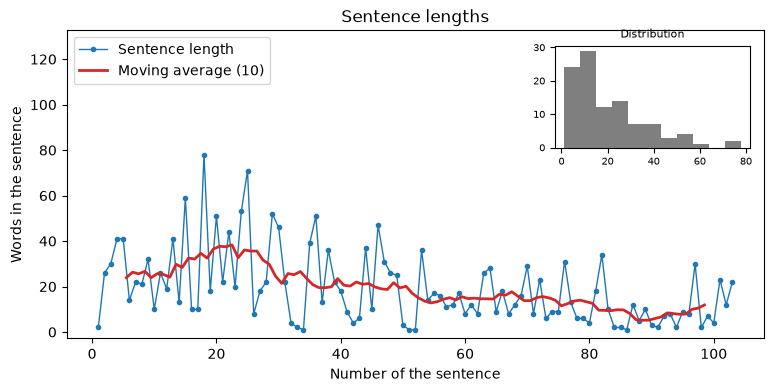
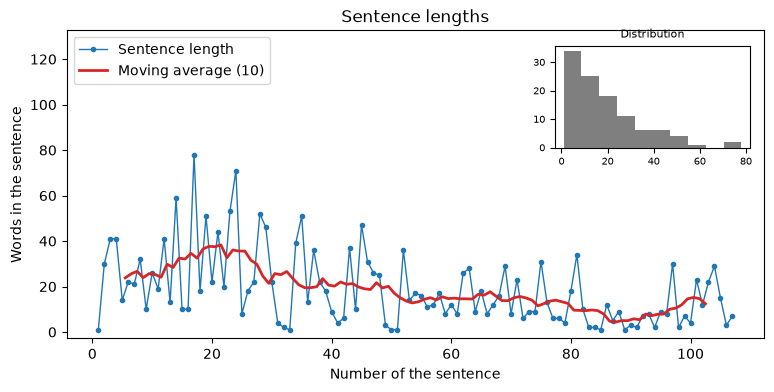
Take the remaining helper copies from the core and re-run the docs examples on the new windows
- in_order, is_finite_verb, is_infinitive and the is_number of the
  lexical statistics come from anyts.utils
- the Raises of corpus_features, compare_corpora, iter_text_sents and
  sentenize name the new errors; the windows are checked before any feature
- the comparison of Galdós and Unamuno, the sentence lengths of Niebla and
  the fingerprinting re-run on the windows of exactly the window size

diff --git a/ests/lexical_stats.py b/ests/lexical_stats.py
@@ -4,7 +4,7 @@ from math import log2, log10, nan
 from pathlib import Path
 from statistics import fmean
 
-from anyts.utils import check_integer, check_words, iter_doc_tokens, safe_divide
+from anyts.utils import check_integer, check_words, is_number, iter_doc_tokens, safe_divide
 from spacy.language import Language
 from spacy.tokens import Doc
 
@@ -135,7 +135,9 @@ class LexicalStats:
             source = pipeline(source, disable=UNUSED_COMPONENTS)
         elif not isinstance(source, Doc):
             raise SourceTypeError("The data source is set incorrectly")
-        tokens = [token for token in iter_doc_tokens(source) if not is_number(token.text)]
+        tokens = [
+            token for token in iter_doc_tokens(source) if not is_number(token.text, NUMBER_PATTERN)
+        ]
         if not tokens:
             raise SourceError("The data source has no words")
         if not source.has_annotation("POS"):
@@ -281,19 +283,6 @@ class LexicalStats:
         stats = self.get_stats()
         for stat, desc in LEXICAL_STATS_DESC.items():
             print(f"{desc:58}|{stats[stat]:^10.2f}")
-
-
-def is_number(word: str) -> bool:
-    """
-    Checking whether a word is a number by NUMBER_PATTERN
-
-    Arguments:
-        word (str): Word
-
-    Returns:
-        bool: Result of the check
-    """
-    return NUMBER_PATTERN.fullmatch(word.lower()) is not None
 
 
 def _mean(values: Sequence[float]) -> float:

diff --git a/ests/components.py b/ests/components.py
@@ -26,7 +26,7 @@ from anyts.constants import (
     MTLD_MIN_LEN,
     MTLD_TTR_THRESHOLD,
 )
-from anyts.utils import check_words, iter_doc_tokens
+from anyts.utils import check_words, is_number, iter_doc_tokens
 from spacy.language import Language
 from spacy.tokens import Doc
 
@@ -35,7 +35,8 @@ from .cohesion_stats import CohesionStats
 from .constants import NAUSEA_TOP_N, PHON_WINDOW_LEN
 from .datasets.freq_dict import FreqDict
 from .diversity_stats import DiversityStats, check_params as check_diversity_params
-from .lexical_stats import LexicalStats, is_number
+from .extractors import NUMBER_PATTERN
+from .lexical_stats import LexicalStats
 from .morph_stats import MorphStats
 from .phon_stats import PhonStats, check_params as check_phon_params
 from .readability_stats import ReadabilityStats, check_preset
@@ -373,7 +374,7 @@ class LexicalStatsComponent(_Component):
 
     def accepts(self, doc: Doc) -> bool:
         """A document gets the statistics when it has a word other than a number"""
-        return any(not is_number(token.text) for token in iter_doc_tokens(doc))
+        return any(not is_number(token.text, NUMBER_PATTERN) for token in iter_doc_tokens(doc))
 
     def compute(self, doc: Doc) -> LexicalStats:
         return LexicalStats(doc, freq_dict=self.freq_dict)

diff --git a/ests/syntax_stats.py b/ests/syntax_stats.py
@@ -16,7 +16,7 @@ from anyts.syntax_stats import (
     is_root,
     subtree_len,
 )
-from anyts.utils import has_feature, is_word, safe_divide
+from anyts.utils import has_feature, is_finite_verb, is_infinitive, is_word, safe_divide
 from spacy.language import Language
 from spacy.tokens import Doc, Token
 
@@ -295,19 +295,6 @@ class SyntaxStats:
             print(f"{desc:50}|{stats[stat]:^10.2f}")
 
 
-def is_finite_verb(token: Token) -> bool:
-    """
-    Checking whether a token is a finite form of a verb
-
-    Arguments:
-        token (Token): Token
-
-    Returns:
-        bool: Result of the check
-    """
-    return token.pos_ == "VERB" and has_feature(token, "VerbForm", "Fin")
-
-
 def is_participle(token: Token) -> bool:
     """
     Checking whether a token is a participle
@@ -336,19 +323,6 @@ def is_gerund(token: Token) -> bool:
         bool: Result of the check
     """
     return has_feature(token, "VerbForm", "Ger")
-
-
-def is_infinitive(token: Token) -> bool:
-    """
-    Checking whether a token is an infinitive
-
-    Arguments:
-        token (Token): Token
-
-    Returns:
-        bool: Result of the check
-    """
-    return has_feature(token, "VerbForm", "Inf")
 
 
 def is_negation(token: Token) -> bool:

diff --git a/ests/style_stats.py b/ests/style_stats.py
@@ -1,10 +1,17 @@
 from collections import Counter
-from collections.abc import Collection, Mapping, Sequence, Set
+from collections.abc import Collection, Sequence
 from functools import cached_property
 from math import nan, sqrt
 
 import anyts
-from anyts.utils import check_integer, check_words, iter_doc_tokens, iter_doc_words, safe_divide
+from anyts.utils import (
+    check_integer,
+    check_words,
+    in_order,
+    iter_doc_tokens,
+    iter_doc_words,
+    safe_divide,
+)
 from spacy.language import Language
 from spacy.tokens import Doc
 
@@ -326,20 +333,6 @@ class StyleStats:
         stats = self.get_stats()
         for stat, desc in STYLE_STATS_DESC.items():
             print(f"{desc:50}|{stats[stat]:^10.2f}")
-
-
-def in_order(words: Collection[str]) -> tuple[str, ...]:
-    """
-    Putting a collection of words in a fixed order
-
-    Arguments:
-        words (list[str]|set[str]): Words; a set or a mapping is sorted, a list,
-            an array or a Series keeps its order
-
-    Returns:
-        tuple[str]: Words in order
-    """
-    return tuple(sorted(words)) if isinstance(words, Set | Mapping) else tuple(words)
 
 
 def _split_text(text: str, max_length: int) -> list[str]:

diff --git a/ests/corpus/compare.py b/ests/corpus/compare.py
@@ -240,7 +240,8 @@ def corpus_features(
     Raises:
         SourceTypeError: If the texts are not a list of strings or the features are not a function
         SourceError: If the corpus has no window of enough words
-        ParameterError: If the size of a window or min_words is not an integer or is below one
+        ParameterError: If the size of a window or min_words is not an integer or is
+            below one, or min_words is greater than the window
 
     Example:
         >>> from ests.corpus import corpus_features
@@ -322,7 +323,8 @@ def compare_corpora(
         SourceError: If one of the corpora has no window of enough words
         ParameterError: If the names of the corpora are not two strings that give
             distinct columns, the number of samples, the size of a window or min_words
-            is not an integer or is below one, or the seed is set incorrectly
+            is not an integer or is below one, min_words is greater than the window, or
+            the seed is set incorrectly
 
     Example:
         >>> from ests.corpus import compare_corpora

diff --git a/tests/test_lexical_stats.py b/tests/test_lexical_stats.py
@@ -2,12 +2,14 @@ from math import isnan, log2, log10
 
 import pytest
 import spacy
+from anyts.utils import is_number
 
 from ests import LexicalStats
 from ests.constants import FREQUENCY_BANDS, LEXICAL_STATS_DESC
 from ests.datasets import FreqDict
 from ests.exceptions import DatasetNotFoundError, ParameterError, SourceError, SourceTypeError
-from ests.lexical_stats import calc_surprisal, get_rank, is_number, load_top_lemmas
+from ests.extractors import NUMBER_PATTERN
+from ests.lexical_stats import calc_surprisal, get_rank, load_top_lemmas
 from ests.utils import get_nlp
 
 TEXT = "El gato estaba en la ventana y miraba a los pájaros"
@@ -118,7 +120,7 @@ def test_numbers_are_no_words(freq_dict):
     ("word", "expected"), [("2020", True), ("1,5", True), ("3.º", True), ("gato", False)]
 )
 def test_is_number(word, expected):
-    assert is_number(word) is expected
+    assert is_number(word, NUMBER_PATTERN) is expected
 
 
 def test_doc_source(ls, freq_dict):

diff --git a/tests/test_package.py b/tests/test_package.py
@@ -128,8 +128,6 @@ PENDING = {
         "count_noun_modifiers",
         "is_agentless",
         "is_clause_head",
-        "is_finite_verb",
-        "is_infinitive",
         "is_infinitive_clause",
         "is_passive",
         "is_predicate",
@@ -150,7 +148,6 @@ PENDING = {
         "check_params",
         "find_nausea_words",
         "find_parentheticals",
-        "in_order",
     },
     "ests.lexical_stats": {
         "FREQUENCY_BANDS",
@@ -175,7 +172,6 @@ PENDING = {
         "SyntaxStatsComponent",
         "check_phon_params",
         "check_style_params",
-        "is_number",
     },
     "ests.visualizers.highlight": {
         "ALLITERATION_THRESHOLD",
@@ -186,7 +182,6 @@ PENDING = {
         "find_long_sents",
         "find_phrase_highlights",
         "find_split_predicate_highlights",
-        "in_order",
     },
 }
 

diff --git a/ests/visualizers/highlight.py b/ests/visualizers/highlight.py
@@ -3,7 +3,7 @@ from collections.abc import Callable, Collection, Iterable, Iterator, Sequence
 
 import anyts.visualizers.highlight
 from anyts.syntax_stats import base_dep, subtree_len
-from anyts.utils import check_integer, check_number, check_words, is_word
+from anyts.utils import check_integer, check_number, check_words, in_order, is_word
 from anyts.visualizers.highlight import (
     Highlight as Highlight,
     Sent,
@@ -38,7 +38,7 @@ from ..datasets.freq_dict import lemma_key
 from ..exceptions import ParameterError
 from ..lexical_stats import get_rank
 from ..phon_stats import CONSONANT_SOUNDS, transcribe
-from ..style_stats import expand_phrases, in_order, is_stopword
+from ..style_stats import expand_phrases, is_stopword
 from ..syllables import count_syllables
 from ..syntax_stats import (
     AUXILIARY_DEPS,

diff --git a/tests/corpus/test_compare.py b/tests/corpus/test_compare.py
@@ -264,3 +264,14 @@ def test_compare_corpora_options():
     single = compare_corpora(short[:1], long, window=None, features=lengths, n_bootstrap=50)
     assert isnan(single.loc["length", "cliff_delta"])
     assert (single.loc["length", "n_A"], single.loc["length", "n_B"]) == (1, 3)
+
+
+def test_windows_are_checked_before_the_features():
+    def spy(text):
+        raise AssertionError("features computed")
+
+    for window, min_words in ((0, None), (5, 0), (5, 6)):
+        with pytest.raises(ParameterError):
+            compare_corpora(short, long, window=window, min_words=min_words, features=spy)
+        with pytest.raises(ParameterError):
+            corpus_features(short, window=window, min_words=min_words, features=spy)

diff --git a/tests/test_utils.py b/tests/test_utils.py
@@ -7,7 +7,7 @@ from spacy.util import compile_infix_regex
 
 from ests import BasicStats, CohesionStats
 from ests.constants import ABBREVIATIONS, TOKENIZER_ABBREVIATIONS
-from ests.exceptions import DatasetNotFoundError, SourceError
+from ests.exceptions import DatasetNotFoundError, SourceError, SourceTypeError
 from ests.utils import (
     add_dash_rules,
     get_nlp,
@@ -222,6 +222,9 @@ def test_iter_text_sents():
     assert sents[0][:2] == (2, 22)
     assert list(iter_text_sents("")) == []
     assert list(iter_text_sents(" \n ")) == []
+    for split in (iter_text_sents, sentenize):
+        with pytest.raises(SourceTypeError):
+            split(5)
 
 
 def test_iter_text_words():

diff --git a/ests/utils.py b/ests/utils.py
@@ -139,6 +139,9 @@ def sentenize(text: str) -> Iterator[str]:
 
     Returns:
         iterator[str]: Iterator of sentences
+
+    Raises:
+        SourceTypeError: If the text is not a string
     """
     return (sent for _, _, sent in iter_text_sents(text))
 
@@ -158,6 +161,9 @@ def iter_text_sents(text: str) -> Iterator[tuple[int, int, str]]:
     Returns:
         iterator[tuple[int, int, str]]: Position of the first character,
             position after the last character and text of each sentence
+
+    Raises:
+        SourceTypeError: If the text is not a string
 
     Example:
         >>> from ests.utils import iter_text_sents

diff --git a/tests/test_syntax_stats.py b/tests/test_syntax_stats.py
@@ -13,7 +13,7 @@ from anyts.syntax_stats import (
     is_root,
     subtree_len,
 )
-from anyts.utils import has_feature, is_word
+from anyts.utils import has_feature, is_finite_verb, is_infinitive, is_word
 from spacy.tokens import Doc
 
 from ests import BasicStats, SyntaxStats
@@ -28,10 +28,8 @@ from ests.syntax_stats import (
     is_agentless,
     is_clause_head,
     is_de_modifier,
-    is_finite_verb,
     is_gerund,
     is_gerund_clause,
-    is_infinitive,
     is_light_verb,
     is_negation,
     is_participle,
